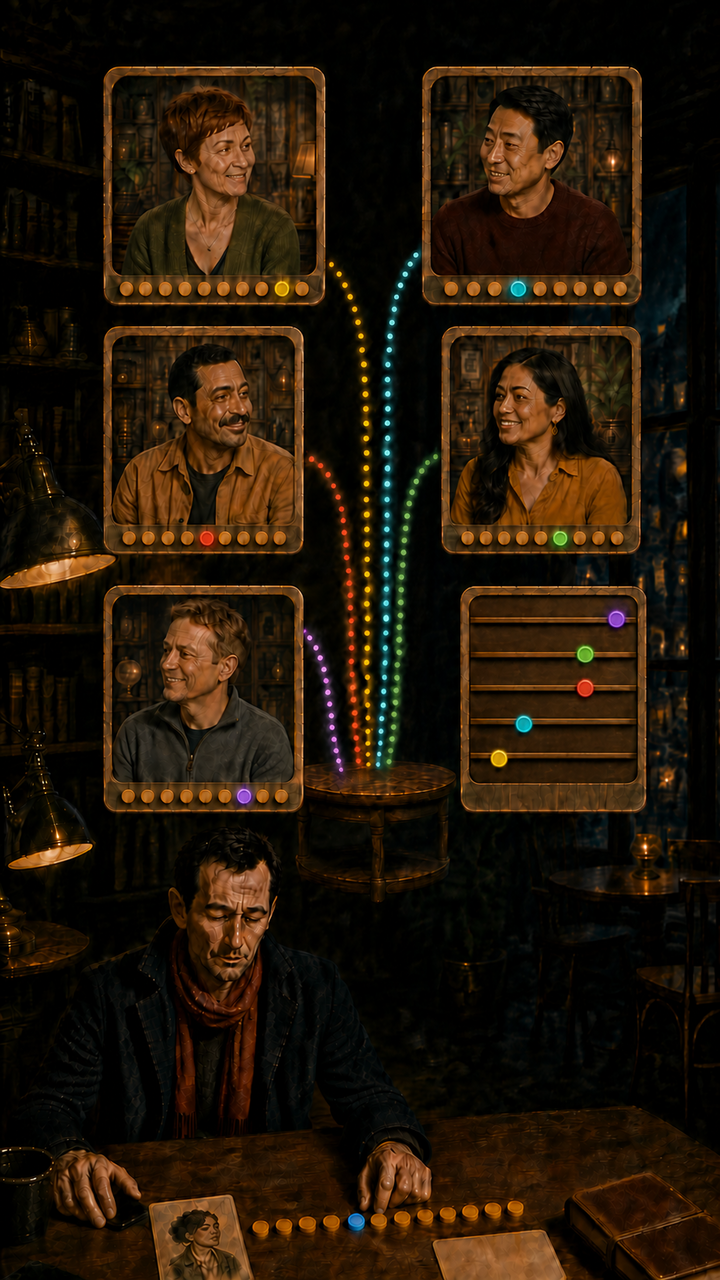
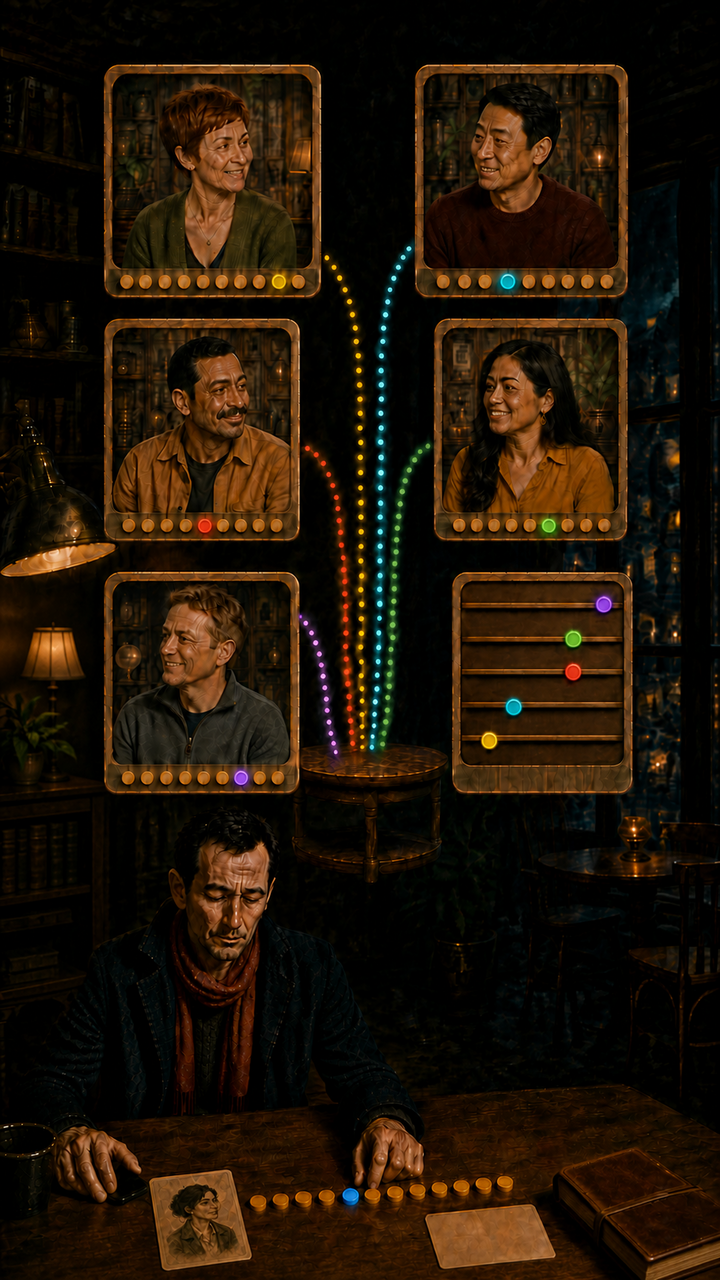
qa - book backup

diff --git a/server/docker/scripts/manual-qa-checkpoints/scenarios/auth-session-checkpoints.js b/server/docker/scripts/manual-qa-checkpoints/scenarios/auth-session-checkpoints.js
@@ -57,7 +57,13 @@
       : [];
   }
 
-  function assertCurrentInvariants(values) {
+  function expectedOutcomes(checkpointState) {
+    return checkpointState && checkpointState.blockedReplayRequired
+      ? ["ACCEPTED", "ACCEPTED", "BLOCKED_LIMIT", "BLOCKED_LIMIT", "ACCEPTED"]
+      : ["ACCEPTED", "ACCEPTED", "BLOCKED_LIMIT", "ACCEPTED"];
+  }
+
+  function assertCurrentInvariants(values, checkpointState) {
     const sessions = activeSessions(values.state);
     if (sessions.length > 2) Q.fail(`found ${sessions.length} active sessions; maximum is 2.`);
     const sessionIds = sessions.map(item => Q.text(item.sessionId));
@@ -69,7 +75,7 @@
       Q.fail("login audit attempt identifiers are blank or duplicated.");
     }
     const outcomes = values.audits.map(item => Q.text(item.outcome));
-    const expectedPrefix = ["ACCEPTED", "ACCEPTED", "BLOCKED_LIMIT", "ACCEPTED"];
+    const expectedPrefix = expectedOutcomes(checkpointState);
     outcomes.forEach((value, index) => {
       if (value !== expectedPrefix[index]) {
         Q.fail(`audit ${index + 1} has outcome '${value}', expected '${expectedPrefix[index]}'.`);
@@ -112,14 +118,18 @@
     return { sessions, expectedWarnings };
   }
 
-  function nextInstruction(auditCount, sessionCount, reloadAProven) {
+  function nextInstruction(auditCount, sessionCount, reloadAProven, blockedReplayRequired) {
     if (auditCount === 0) return "In client A choose Member and sign in as Nova Social once.";
     if (auditCount === 1 && !reloadAProven) return "Reload client A once, prove it stays usable, then run capture-reload before signing in B.";
     if (auditCount === 1) return "In client B choose Member and sign in as Nova Social once; A must receive one normalized security warning.";
     if (auditCount === 2) return "In client C choose Member and attempt Nova Social once; it must remain on Entry with the two-session warning.";
+    if (auditCount === 3 && sessionCount === 2 && blockedReplayRequired) return "Reload client C onto the repaired frontend and repeat the blocked Nova Social attempt once.";
     if (auditCount === 3 && sessionCount === 2) return "Explicitly log out client A once, then run status before retrying C.";
     if (auditCount === 3 && sessionCount === 1) return "Retry Nova Social once in client C; it must now enter as the second active session.";
+    if (auditCount === 4 && sessionCount === 2 && blockedReplayRequired) return "Explicitly log out client A once, then run status before retrying C.";
+    if (auditCount === 4 && sessionCount === 1 && blockedReplayRequired) return "Retry Nova Social once in client C; it must now enter as the second active session.";
     if (auditCount === 4 && sessionCount === 2) return "Capture A/B/C UI evidence and record AUTH-SESSION-001 PASS/CLOSED.";
+    if (auditCount === 5 && sessionCount === 2 && blockedReplayRequired) return "Capture A/B/C UI evidence and record AUTH-SESSION-001 PASS/CLOSED with the preserved blocked UI repair replay.";
     return "Stop: the persisted session boundary does not match an expected AUTH-SESSION-001 phase.";
   }
 
@@ -167,7 +177,7 @@
     config();
     const checkpointState = requireState();
     const values = documents();
-    const checked = assertCurrentInvariants(values);
+    const checked = assertCurrentInvariants(values, checkpointState);
     if (values.audits.length !== 1 || checked.sessions.length !== 1
         || values.notifications.length !== 0 || values.outbox.length !== 0) {
       Q.fail("client A reload proof requires exactly one audit, one active session and no security warning.");
@@ -186,6 +196,30 @@
       auditCount: 1,
       securityNotificationCount: 0,
       next: "In client B choose Member and sign in as Nova Social once."
+    });
+  }
+
+  function armBlockedReplay() {
+    config();
+    const checkpointState = requireState();
+    const values = documents();
+    const checked = assertCurrentInvariants(values, checkpointState);
+    if (values.audits.length !== 3 || checked.sessions.length !== 2
+        || values.notifications.length !== 2 || values.outbox.length !== 2) {
+      Q.fail("blocked UI replay can be armed only after the first exact BLOCKED_LIMIT boundary.");
+    }
+    const armedAtIso = Q.nowIso();
+    Q.collection(Q.STATE_COLLECTION).updateOne(
+      { _id: checkpointState._id },
+      { $set: { blockedReplayRequired: true, blockedReplayArmedAtIso: armedAtIso } }
+    );
+    Q.printObject({
+      scenario: SCENARIO,
+      checkpointId,
+      phase: "blocked-ui-replay-armed",
+      armedAtIso,
+      preservedAuditCount: 3,
+      next: "Reload client C onto the repaired frontend and repeat the blocked Nova Social attempt once."
     });
   }
 
@@ -209,13 +243,16 @@
       return;
     }
     const values = documents();
-    const checked = assertCurrentInvariants(values);
+    const checked = assertCurrentInvariants(values, state);
+    const terminalAuditCount = state.blockedReplayRequired ? 5 : 4;
     Q.printObject({
       scenario: SCENARIO,
       checkpointId,
-      phase: values.audits.length === 4 && checked.sessions.length === 2 ? "complete" : "active",
+      phase: values.audits.length === terminalAuditCount && checked.sessions.length === 2 ? "complete" : "active",
       stagedAtIso: state.stagedAtIso,
       reloadAProvenAtIso: state.reloadAProvenAtIso || null,
+      blockedReplayRequired: Boolean(state.blockedReplayRequired),
+      blockedReplayArmedAtIso: state.blockedReplayArmedAtIso || null,
       activeSessionCount: checked.sessions.length,
       activeSessions: checked.sessions.map(item => ({
         sessionId: Q.text(item.sessionId),
@@ -236,9 +273,22 @@
         userAgentHash: Q.text(item.userAgentHash)
       })),
       securityNotificationCount: values.notifications.length,
+      securityNotifications: values.notifications.map(item => ({
+        notificationId: Q.text(item.notificationId || item._id),
+        readAtIso: item.readAtIso || null,
+        titleKey: Q.text(item.payload && item.payload.notification_title_key),
+        messageKey: Q.text(item.payload && item.payload.notification_message_key),
+        clientLabel: Q.text(item.payload && item.payload.clientLabel),
+        loginOutcome: Q.text(item.payload && item.payload.loginOutcome)
+      })),
       securityOutboxCount: values.outbox.length,
       expectedWarningCount: checked.expectedWarnings,
-      next: nextInstruction(values.audits.length, checked.sessions.length, Boolean(state.reloadAProvenAtIso))
+      next: nextInstruction(
+        values.audits.length,
+        checked.sessions.length,
+        Boolean(state.reloadAProvenAtIso),
+        Boolean(state.blockedReplayRequired)
+      )
     });
   }
 
@@ -267,6 +317,7 @@
     case "stage": stage(); break;
     case "status": status(); break;
     case "capture-reload": captureReload(); break;
+    case "arm-blocked-replay": armBlockedReplay(); break;
     case "reset": reset(); break;
     default: Q.fail(`unsupported command '${command}'.`);
   }

diff --git a/guides/qa/handoffs/CURRENT_QA_SESSION.md b/guides/qa/handoffs/CURRENT_QA_SESSION.md
@@ -33,16 +33,16 @@ resume pointer and reusable working method.
 ```yaml
 checkpoint: AUTH-SESSION-001 — two-session limit, new-login warning and audit
 detail: ../manuals/DOMAIN_LIFECYCLE_MANUAL_QA_PACK.md#auth-session-001--two-session-limit-new-login-warning-and-audit
-scenario: auth-session (fixture route not yet implemented)
+scenario: auth-session
 ledger_status: DESIGN CAPTURED / NOT RUN
-state: EVENT-INV-006 is PASS/CLOSED in pack/CSV/XLSX and reset/not-staged at 2026-08-14T19:18:45.473Z; never replay either acceptance. Open and Blind each ended accepted2/pending1 with the expected role-scoped recipients, one join row per event, zero chat-message notifications, and both recompute tasks terminal once/empty error. The dev profile now uses a 15s event-members-changed debounce through AFFINITY_RECOMPUTE_EVENT_MEMBERS_CHANGED_DEBOUNCE while production retains 5m; this keeps the real worker observable without a five-minute manual wait. The next unclosed core ledger row is AUTH-SESSION-001. Its definition exists, but the manual checkpoint fixture/oracle route has not yet been implemented and the role-isolation windows cannot be reused as evidence.
-required_resume: Do not stage event-domain or reopen the closed INV-006 producers. Audit the server-authoritative active-session/login-audit implementation and existing authentication tests first. Add a guarded AUTH-SESSION-001 fixture/oracle route if missing, with exact A/B/C session identities and cleanup; then replace the three role-isolation browsers with exactly three fresh isolated profiles for one controlled account. Prove a clean zero-session/audit/warning baseline before issuing login A.
-event: EVENT-INV-006 reset and not staged; AUTH-SESSION-001 has no staged state yet
+state: EVENT-INV-006 is PASS/CLOSED and reset/not-staged; never replay either acceptance. AUTH-SESSION-001 is active. Branch A login/reload and Branch B second login are proven. First C BLOCKED_LIMIT attempt exposed a generic selector error; the repaired C replay at 2026-08-14T20:09:16.631777810Z preserved the first immutable attempt and produced the exact ordered ACCEPTED/ACCEPTED/BLOCKED_LIMIT/BLOCKED_LIMIT audit sequence. Two active sessions remained, and three normalized unread security notification/outbox rows exist. C stayed on Entry and rendered “Two sessions are already active. Sign out from one of them, then try again.” with no raw key. A and B both converged in-place to notification counter 3. The got.it/demo-bundle race and selector error-propagation fixes remain queued for final accepted-C replay evidence.
+required_resume: Explicitly log out Client A once through the ordinary visible Logout action. Do not close the window and do not touch B or C. Then run status auth-session AUTH-SESSION-001 and require activeSessionCount=1 with B retained, auditCount=4 unchanged, and security notification/outbox counts still 3. Only after that oracle may C retry.
+event: AUTH-SESSION-001 blocked-UI repair replay PASS; activeSessionCount=2, auditCount=4, securityNotificationCount=3, securityOutboxCount=3; A/B visible counters both 3
 actors:
-  active: Casey port33251, Nova port40387 and Riley port44173 are stale role-isolation documents after the closed fixture reset; keep the three-window maximum but do not use these documents as AUTH evidence
-  controls: AUTH will use three fresh isolated client identities A/B/C authenticated as the same controlled user; exact ports/pages are assigned only after fixture readiness
-next_actor: Codex audits AUTH-SESSION-001 implementation and creates/proves its guarded fixture/oracle before replacing the existing three managed documents; no user action now.
-stop_phrase: AUTH clean baseline and exact A/B/C browser identities proven before login A
+  active: Client A port41963, Client B port36767 and Client C port44279 are fresh isolated anonymous Entry documents opened at 2026-08-14T19:44:19.539Z
+  controls: all three will authenticate as the same controlled Nova Social account; B and C must remain untouched during Branch A
+next_actor: User explicitly logs out only Client A through the visible UI; Codex proves the server slot was released before C retries.
+stop_phrase: megvan
 ```
 
 ### Efficient resume gate
@@ -107,12 +107,11 @@ the checkpoint says otherwise.
 
 ### Next manual action
 
-Prepare `AUTH-SESSION-001 — two-session limit, new-login warning and audit`.
-Audit the server-authoritative session implementation and add the missing
-guarded fixture/oracle route before changing browsers. Then replace, rather
-than add to, the three stale role-isolation documents with exactly three fresh
-clients A/B/C for one controlled account. Do not ask for login A until the
-zero-session/audit/warning baseline is proven.
+`AUTH-SESSION-001 — two-session limit, new-login warning and audit`, Branch A.
+The guarded clean baseline and the three exact isolated A/B/C clients are
+ready. Sign in only Client A as Nova Social; leave B and C untouched. The next
+machine oracle must show one accepted audit, one active session and zero
+security warnings before the reload branch.
 
 ## QA working method
 

diff --git a/guides/story/product-demo/prompts/FRAME_GENERATION.md b/guides/story/product-demo/prompts/FRAME_GENERATION.md
@@ -44,9 +44,12 @@ and the counters do not form a straight diagonal. Each portrait has an amber
 marker row with exactly one colored circular position counter matching its
 dotted path: golden yellow, turquoise, coral red, leaf green and violet. Five
 colored dotted paths reach a small central round table. John remains visible
-only as the live Founder below the demonstration. The objects show private
-editable ordering, never public human worth. None of the five sample identities
-returns in CP04–CP08.
+only as the live Founder below the demonstration. His wooden desk and its
+closed books remain visible; one black desk lamp and one small warm fabric
+lampshade preserve the CP02 room continuity. A quiet low bookcase and plant sit
+in the background. There is no manuscript, loose paper or second black lamp.
+The objects show private editable ordering, never public human worth. None of
+the five sample identities returns in CP04–CP08.
 
 ## `PR_CP04` — six people arrange their own lists
 

diff --git a/guides/story/product-demo/production/RELEASE_CHECKLIST.md b/guides/story/product-demo/production/RELEASE_CHECKLIST.md
@@ -21,6 +21,10 @@
   screen-side continuity.
 - [ ] No duplicate/merged person, bad hand, camera jump, generated text or logo.
 - [ ] One clear action and one restrained camera move.
+- [ ] In S02 the priority board stays card-sized in its lower-right final slot
+  on every intermediate frame; it never grows in the center.
+- [ ] S02 preserves one black desk lamp, one warm fabric lampshade and closed
+  books; no duplicate lamp or manuscript appears.
 - [ ] Private priorities never become public human scores; the resulting group
   is possible rather than forced or guaranteed.
 - [ ] Record the charged credits and one concrete defect before any retry.
